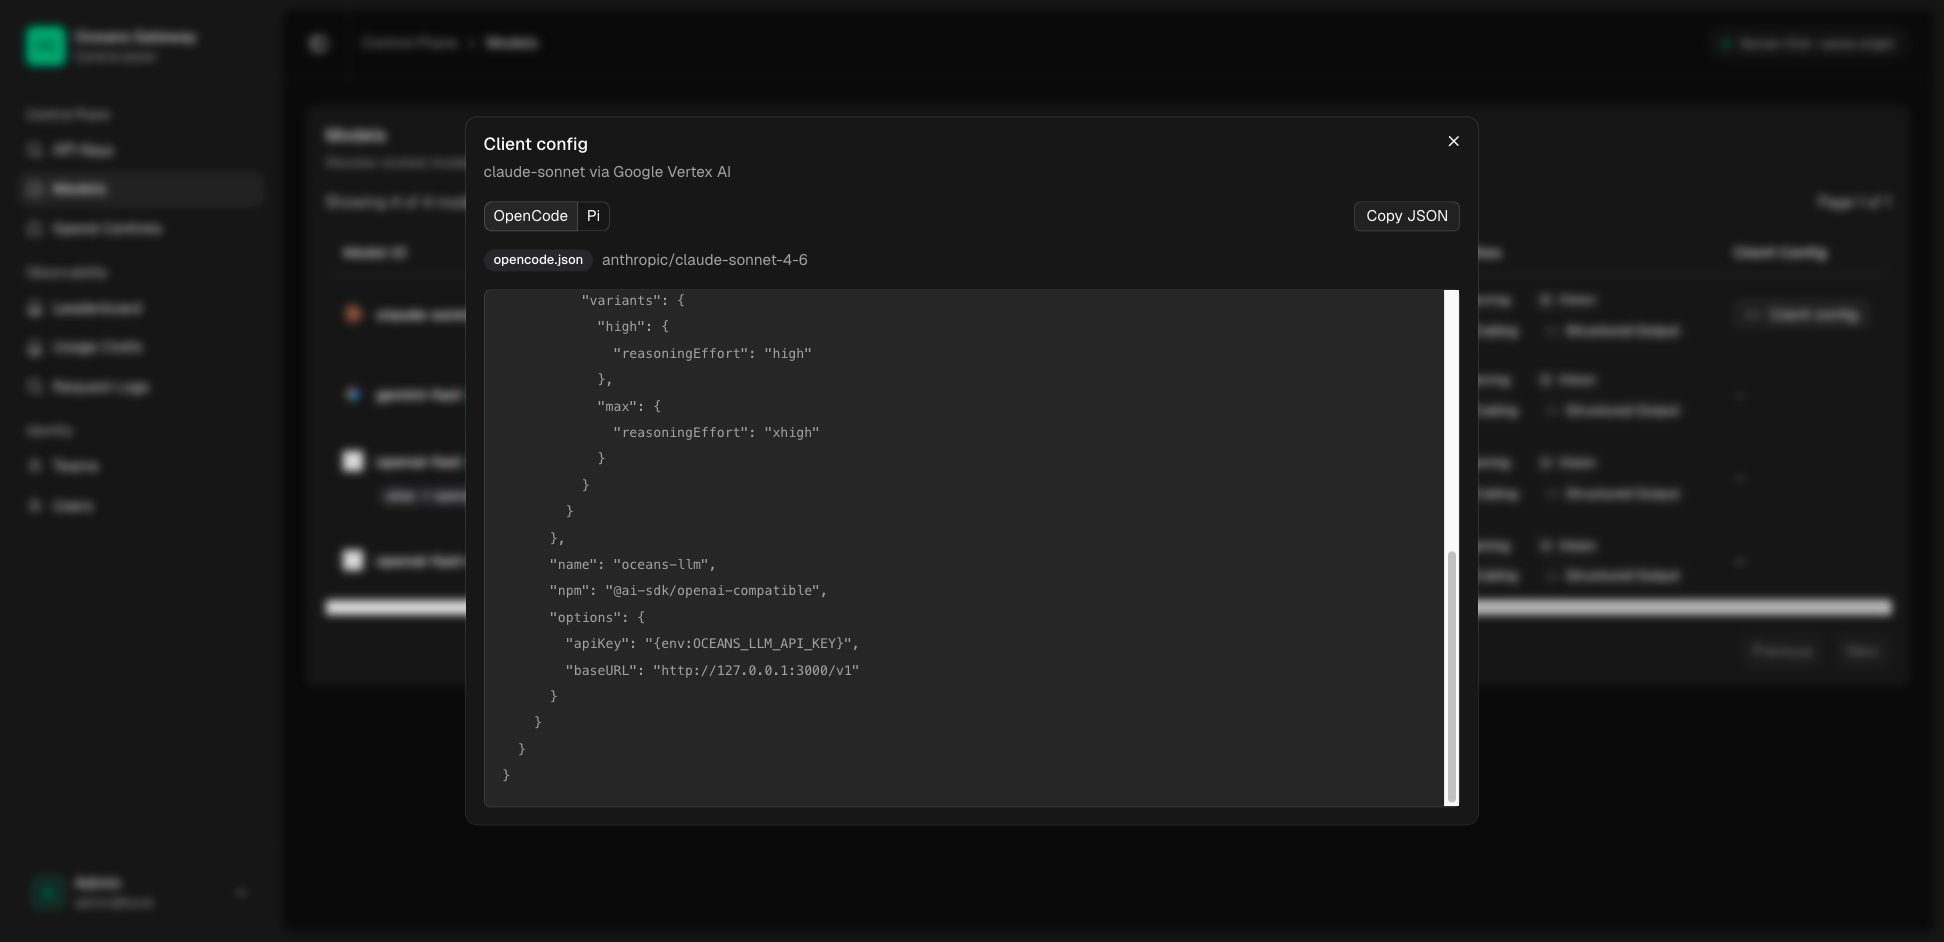
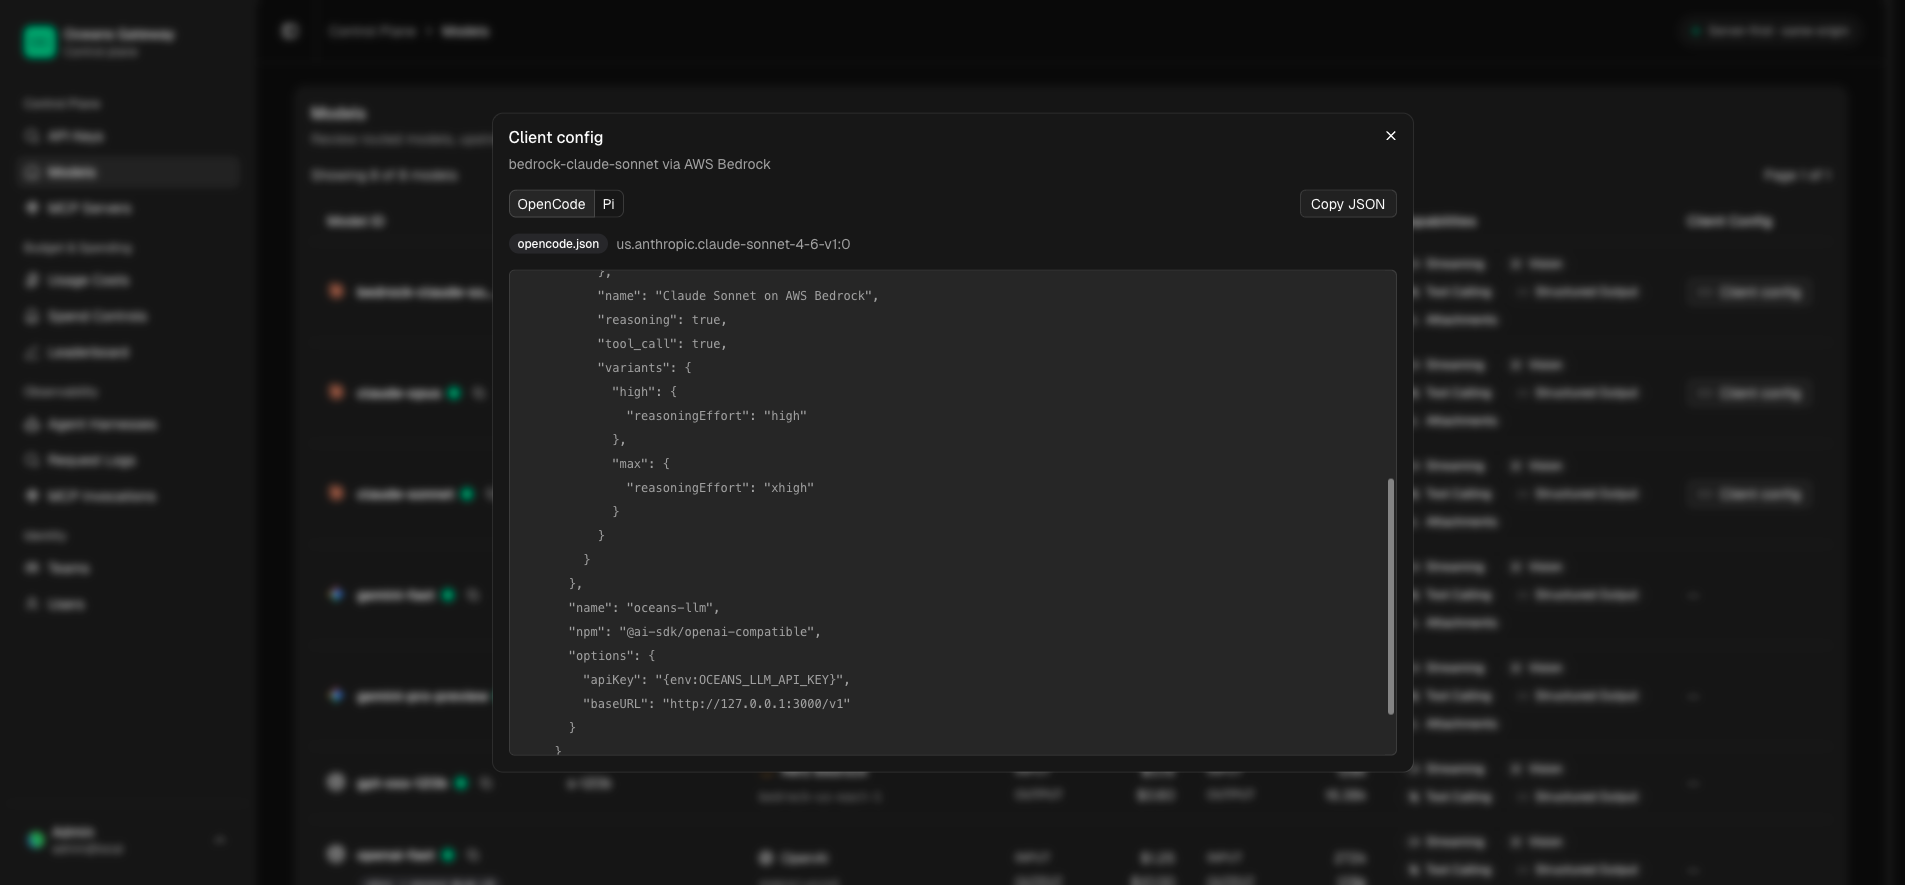
docs: updating screenshots

diff --git a/docs/configuration/client-harness-configuration.md b/docs/configuration/client-harness-configuration.md
@@ -1,0 +1,11 @@
+# Client Harness Configuration
+
+See Also: [Model Routing and API Behavior](model-routing-and-api-behavior.md)
+
+![Model Config Page](../public/images/screenshot-model-client-config.png)
+
+To aid in user experience, Oceans has the ability to generate config for popular client harnesses such as [OpenCode] and [Pi].
+
+
+[opencode]: https://opencode.ai/
+[pi]: https://pi.dev/

diff --git a/docs/configuration/mcp-servers.md b/docs/configuration/mcp-servers.md
@@ -2,6 +2,9 @@
 
 `See also`: [MCP Client Setup](../setup/mcp-client-setup.md), [Identity and Access](../access/identity-and-access.md), [Admin Control Plane](../access/admin-control-plane.md), [MCP Registry and Discovery](../operations/observability/mcp-registry-and-discovery.md)
 
+
+![MCP Servers Page](../public/images/screenshot-mcp-servers.png)
+
 Oceans can register external Streamable HTTP MCP servers and expose them to MCP clients through the gateway at:
 
 ```text

diff --git a/docs/configuration/configuration-reference.md b/docs/configuration/configuration-reference.md
@@ -4,6 +4,8 @@
 
 This page owns config syntax and parse-time rules. It does not own the full runtime story after a request starts moving.
 
+![Models Page](../public/images/screenshot-models.png)
+
 ## Source of Truth
 
 - config parsing and validation: